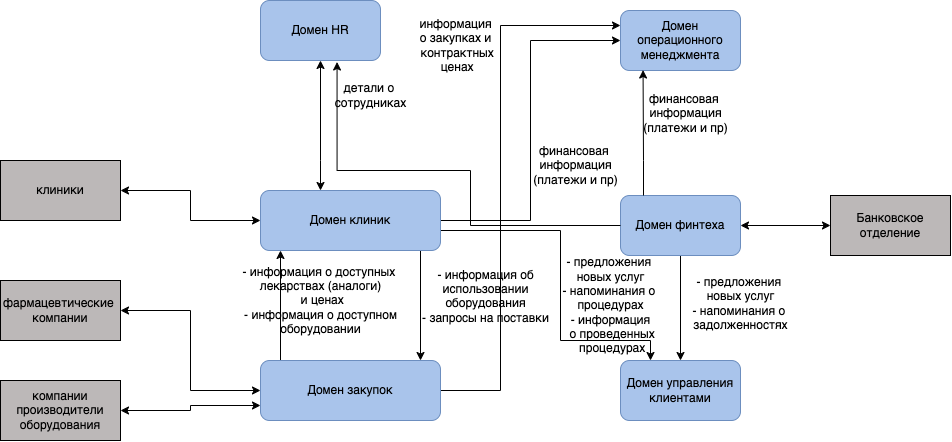
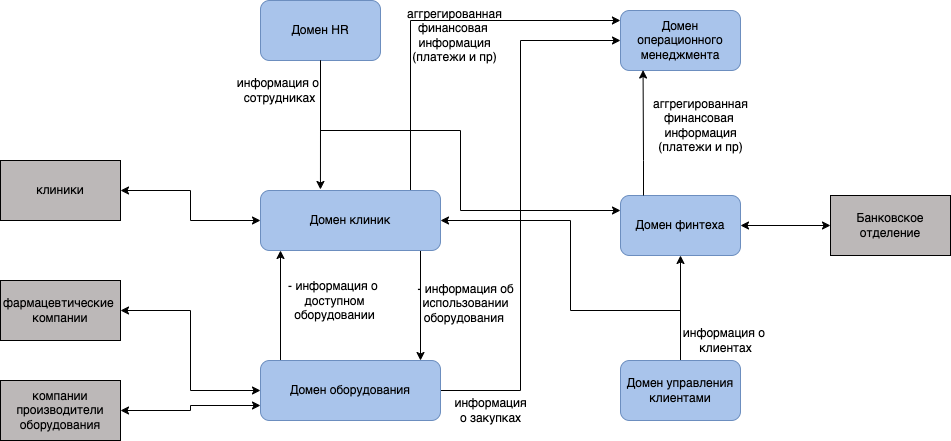
Задния были обновлены после ревью комментариев: Task1 - добавлены бизнес-сценарии для потенциальных проблем Task2 - Обновлены детали/принципы разбиения доменов с детализацией границ и интерфейсов. Добавлена информация о подходе с пересекающимися данными. Task4 - Актуализирована диаграмма развертыван

diff --git a/Task2/Domains.md b/Task2/Domains.md
@@ -1,10 +1,17 @@
 # Список потенциальных доменов и обоснование
 
-|#|Домен|Пример данных, которыми владеет|Обоснование|Дополнение|
+
+|#|Домен|Ценность продукта|Границы|Какие  данные может предоставлять|
 |-|-----|---------------|-----------|----------|
-|1|Домен Клиники|<ul><li>Детали диагностики и клинического обслуживания</li><li>Информация о назначениях лекарств</li><li>Использование оборудования</li><li>Потребности в оборудовании для процедур</li></ul>| Управление данными необходимыми для лечения клиентов ||
-|2|Домен закупок|<ul><li>Доступные лекарства (какие, где, цена)</li><li>Доступное оборудование (какие, где, цена)</li></ul>|<ul><li>Повышение качества назначения лечения (актуальные лекарстава)</li><li>Снижение времени на вывод новых сервисов(лечебных процедур на новых вариантах оборудования)</li><li>Снижение затрат при планировании закупок существующего оборудования</li></ul>|Можно разделить на домены лекарств и домен оборудования|
-|3|Домен управления клиентами|<ul><li>Информация о пользователях</li><li>Платежи клиентов</li><li>Сервисы которыми клиенты пользовались</li></ul>|<ul><li>Создает новые источники доходов (можно предлагать клиентам новые сервисы на основе пользования существующими сервисами)</li><li>повышение качества обслуживания</li></ul>|
-|4|Домен финтеха|<ul><li>Кредитный рейтинг</li><li>Использование финансовых услуг</li><li>Платежи</li></ul>|<ul><li>Создает новые источники доходов (например можно предлагать клиентам новые сервисы по оплате лечебных процедур или лекарств)/li></ul>|
-|5|Домен операционного менеджмента|<ul><li>информация о финансах внутри отделов компании и компании в целом</li></ul>|<ul><li>Позволяет более точно планировать развитие, оценивать успешность внедрения новых сервисов и работу существующих</li></ul>|
-|6|Домен HR и отдела кадров|<ul><li>информация о сотрудниках</li></ul>|<ul><li>Повышает эффективность взаимодействия с сотрудниками (планирование обучения, отзывы и прочее)</li></ul>|
+|1|Клиники|Дает возможность предоставлять качественное лечение на основе хранимых данных и аналитики, определить наиболее выгодные/популярные сопособы лечения и врачи | Управление данными необходимыми для лечения клиентов |Хранит всю информацию связанную с лечением, включая стоимости процедур и платежей за них|<li>используемое оборудовании в лечении конкретного пациента (потребитель - домен оборудование)</li><li>прдоставляет обобщенную (аггрегированную) информацию о платежах (для домена операционного менеджмента)</li>|
+|2|Оборудование|Дает возможность предоставлять данные об использовании оборудования, рекомендации по новым сервисам, по обновлению оборудования|Хранит всю информацию связанную с используемым оборудованием|стоимость закупок оборудования и цены на оборудования (для домена  финансового сервиса )|
+|3|Управление клиентами|Дает возможность предоставлять аналитику по используемым сервисам, строить воронки продаж, рекомендовать клиентам новые сервисы на базе предпочтений|Хранит всю информацию о клиенте, его поведении, предпочтениях и сервисах, которые он использует|наборы клиентов и предлагаемых сервисов|
+|4|Операционный менеджмент|Дает возможность получить информацию о финансовом состоянии компании, облегчить финансовое планирование и спланировать выведение новых сервисов | Хранит всю информацию о финансах компании: доходы, расходы, предполагаемые затраты и прочее | 
+|5|Финансовый сервис (финтех)|Дает возможность предоставлять финансовые услуги клиентам (кредиты, рассрочки, прочее)| Хранит всю информацию о финансовых сервисах и операциях клиентов, включая клиентские платежи | прдоставляет обобщенную (аггрегированную) информацию о платежах (для домена операционного менеджмента)|
+|6|Домен HR и отдела кадровДает возможность управления персоналом: оценить загрузку сотрудников, подобрать сотрудников для обучения, найти новые кадры и прочее|Хранит всю информацию о сотрудниках компании| Предоставляет информацию о доступных сотрудниках (для всех доменов)|
+
+# Комментарии
+
+Разбинение по доменам (продуктам) было выполнено по однородности информации и предполагаемой ценности. К примеру информация об наличии и использовании оборудовании в компании, а также знание о возможных типах оборудования, предлагаемых производителями предлагает независимо развивать домен для различных сервисы на базе этого продукта не затрагивая остальные домены. Например определять рентабельность оборудования или искать новые возможные медицинские сервисы на базе свежего оборудования и тп.
+
+Ряд данных имеет пересечения между доменами: например информация о платежах клиентов. Предполагается, что домены источники платежей (медицинский и финансовый) являются владельцами этих данных, так как они нужны для работы. Однако в аггрегированном виде эта информация может хранится в домене операционного менеджмента для построения аналитики и отчетов по предприятию/компании.

diff --git a/Task1/Problems.md b/Task1/Problems.md
@@ -1,8 +1,8 @@
 # Список потенциальных проблем и их приоритизация
 
-|#|проблема|Приоритет|Обоснование|
-|-|--------|---------|-----------|
-|1|Медленная генерация отчетов в следствии неэффективной структуры данных | Срочный, Приоритетный  (Must Have) | Задержки при генерации отчетов могут вызвать задержки в принятии решений |
-|2|Отсутствие архивации неактуальных данных| Несрочный, Приоритетный (Should Have) | Хранение неактуальных данных замедляет выдачу результата и увеличивает потребность системы (DWH) в дисковой емкости или повышает стоимость владения (в случае облачного хранилища) |
-|3|Остутствие/Плохая документация| Несрочный, Приоритетный (Could have)| Задерживает разработку внедрение новой функциональности, увеличивает время исправление проблем увеличивая стоимость поддержки и разработки |
-|4|Остутствие интеллектуального помощника при построении структур данных|Несрочный, неприоритетный (Nice to have)| Снижает скорость добавления новых клиентов/новых типов данных для анализа, что увеличивает время TTM| 
+|#|проблема|Приоритет|Обоснование|Какие бизнес-сценарии страдают|
+|-|--------|---------|-----------|--------------------|
+|1|Медленная генерация отчетов в следствии неэффективной структуры данных | Срочный, Приоритетный  (Must Have) | Задержки при генерации отчетов могут вызвать задержки в принятии решений | <li>Внедрение новых сервисов</li> <li>снижение качества работы сущетвующих сервисов (например использование неактуального набора лекарств для клиентов снижает качество работы медицинского сервиса)</li>|
+|2|Отсутствие архивации (и очистки стораджа) неактуальных данных| Несрочный, Приоритетный (Should Have) | Хранение неактуальных данных замедляет выдачу результата (см. предыдущий пункт) и увеличивает потребность системы (DWH) в дисковой емкости или повышает стоимость владения (в случае облачного хранилища) | основной бизнес-сценарий получение прибыли |
+|3|Остутствие/Плохая документация| Несрочный, Приоритетный (Could have)| Задерживает разработку внедрение новой функциональности, увеличивает время исправление проблем увеличивая стоимость поддержки и разработки | Понижает качество медицинского и финансового сервиса |
+|4|Остутствие интеллектуального помощника при построении структур данных|Несрочный, неприоритетный (Nice to have)| Снижает скорость добавления новых клиентов/новых типов данных для анализа, что увеличивает время TTM| Внедрение новых сервисов |
